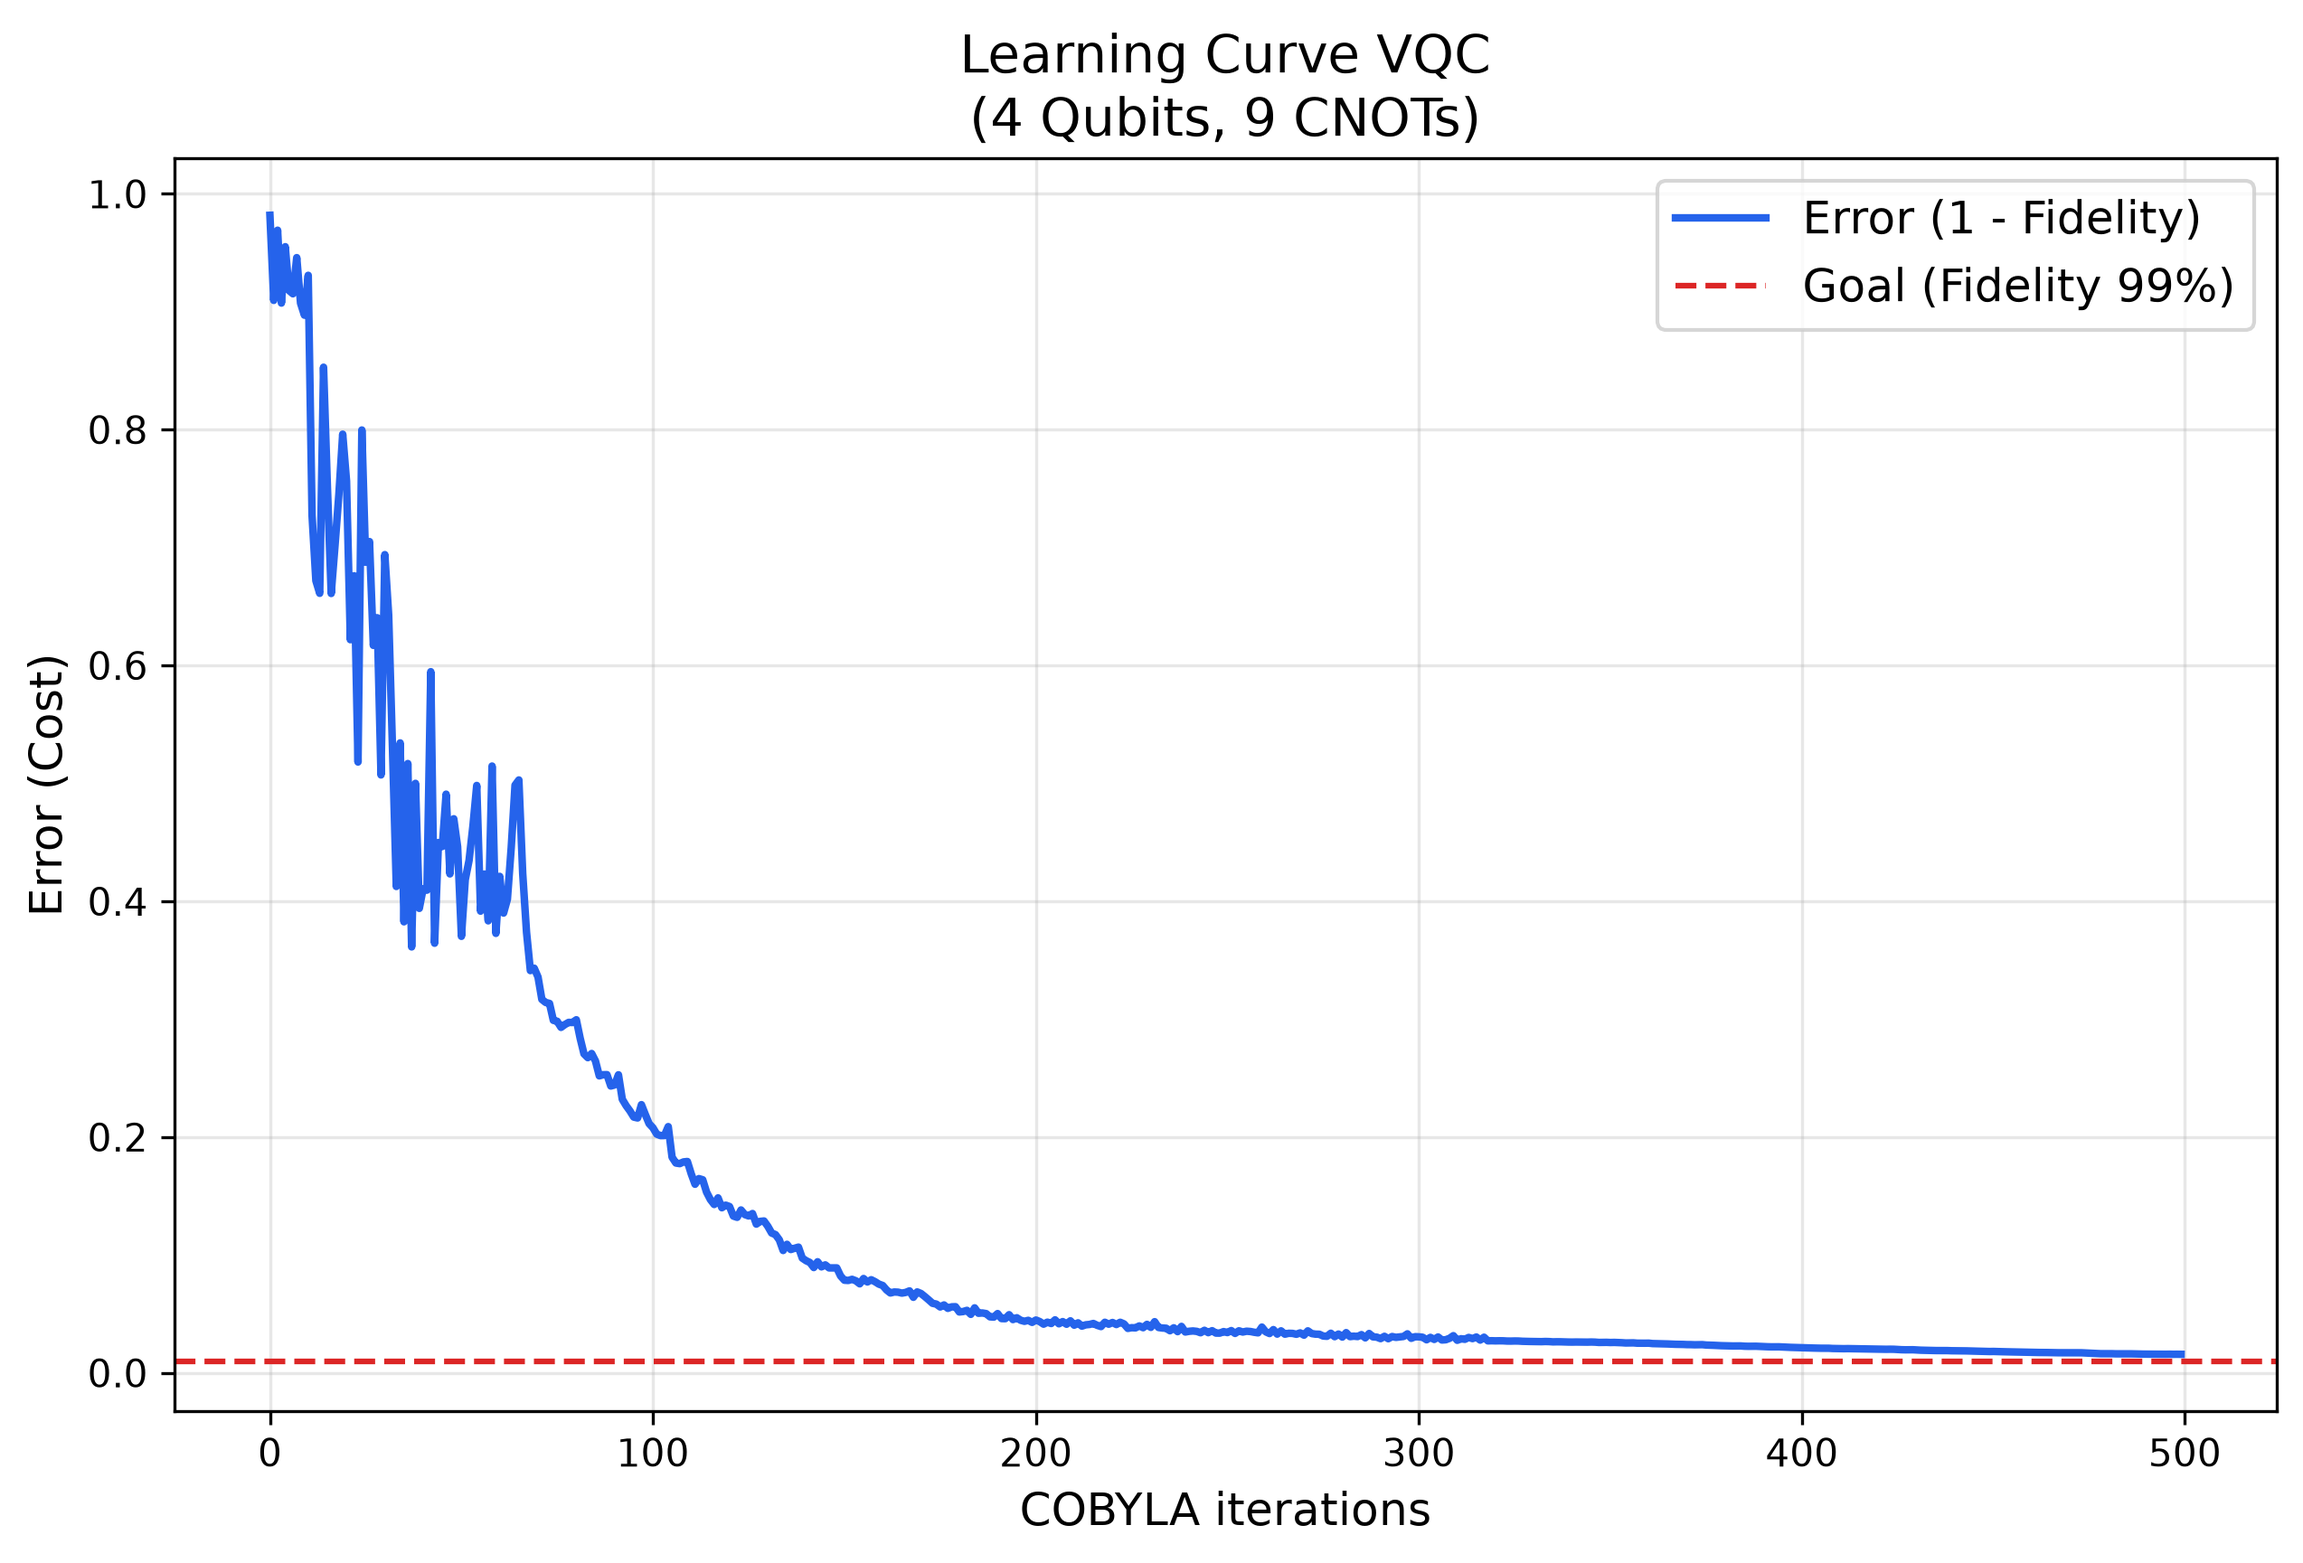
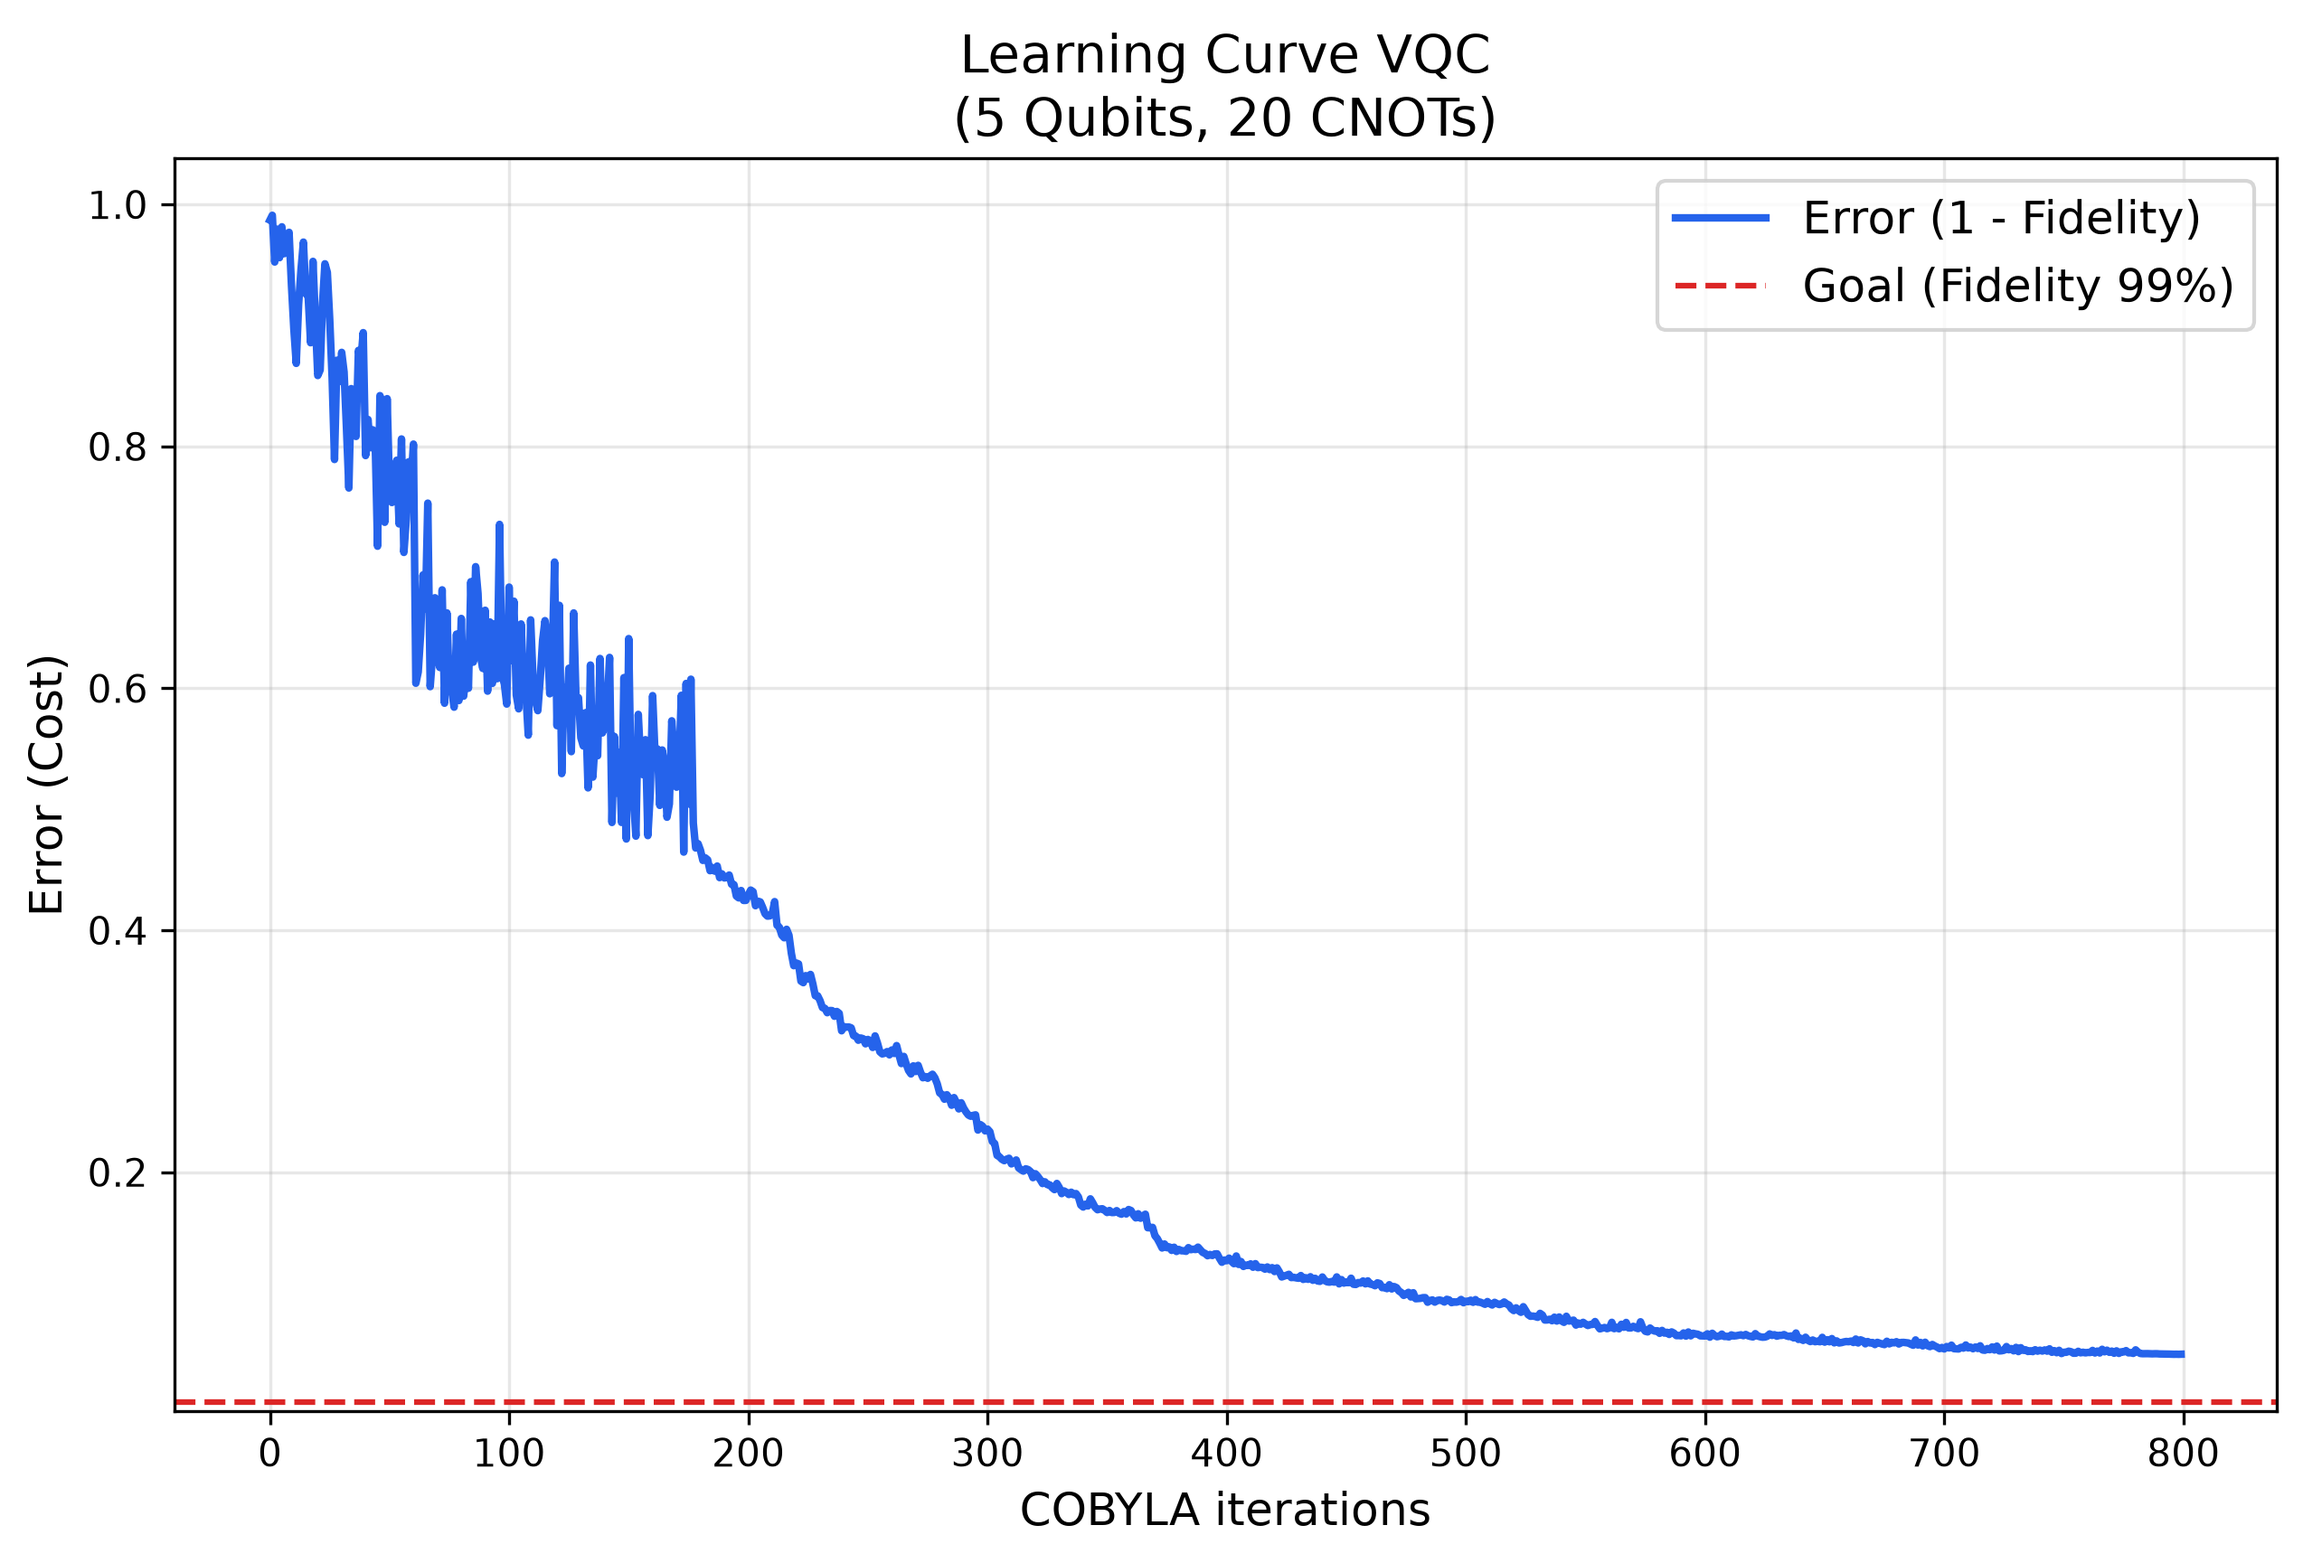
Refactor: Restructure project architecture (backend/frontend)

diff --git a/webapp/app.py b/webapp/app.py
@@ -1,0 +1,71 @@
+import sys
+import os
+sys.path.append(os.path.dirname(os.path.dirname(os.path.abspath(__file__))))
+
+import streamlit as st
+import numpy as np
+import matplotlib.pyplot as plt
+
+from q_state_prep.utils import generate_noise_map_state
+
+# PAGE CONFIGURATION
+st.set_page_config(
+    page_title="Quantum Noise Generator",
+    page_icon="",
+    layout="wide"
+)
+
+st.title("Quantum Procedural Noise Generator")
+st.markdown("Explore how Variational Quantum Circuits (VQC) optimize state preparation for procedural generation compared to exact methods.")
+
+# SIDEBAR CONTROLS
+with st.sidebar:
+    st.header("⚙ Quantum Parameters")
+    
+    # Safe limit: 2 to 6 qubits to prevent browser freezing during local simulation
+    n_qubits = st.slider(
+        "Number of qubits",
+        min_value=2, max_value=6, value=4, step=1,
+        help="Defines map resolution. 4 qubits = 16 values, 6 qubits = 64 values..."
+    )
+
+    st.markdown("---")
+    st.subheader("VQC Configuration")
+    reps = st.slider(
+        "Ansatz Layers (Reps)",
+        min_value=1, max_value=5, value=3, step=1,
+        help="More layers = higher potential fidelity but more CNOT gates."
+    )
+    maxiter = st.slider(
+        "Max iterations",
+        min_value=100, max_value=800, value=300, step=50,
+        help="Iteration limit for the COBYLA classical optimizer."
+    )
+
+    run_button = st.button("🚀 Run Comparision", type="primary", use_container_width=True)
+
+
+# MAIN PANEL: TARGET STATE VISUALIZATION
+st.header("1. Target: 1D Noise Map")
+
+# Generate amplitudes using the original function
+target_amplitudes = generate_noise_map_state(n_qubits)
+n_states = len(target_amplitudes)
+
+# 1D Profile Plot
+fig_target, ax_target = plt.subplots(figsize=(10, 3))
+ax_target.plot(range(n_states), target_amplitudes, marker='o', color="#2563eb", linewidth=2, markersize=6)
+ax_target.fill_between(range(n_states), target_amplitudes, color="#3b82f6", alpha=0.2)
+
+ax_target.set_title(f"Ideal Noise Profile ({n_qubits} Qubits | {n_states} States)", fontweight='bold')
+ax_target.set_xlabel("Quantum State Index")
+ax_target.set_ylabel("Probability Amplitude")
+ax_target.grid(True, alpha=0.3)
+
+# Render plot in Streamlit
+st.pyplot(fig_target)
+
+# RENDER PLACEHOLDER (NEXT STEPS)
+if run_button:
+    st.divider()
+    st.info("The live VQC training and Exact Method comparision will be inserted here...")

diff --git a/cli_scripts/train_vqc.py b/cli_scripts/train_vqc.py
@@ -1,26 +1,14 @@
+import sys
+import os
+# Add root directory to Python path
+sys.path.append(os.path.dirname(os.path.dirname(os.path.abspath(__file__))))
+
 import numpy as np
 import matplotlib
 matplotlib.use('Agg')
 import matplotlib.pyplot as plt
 from q_state_prep.vqc_prep import create_ansatz, get_num_parameters, VQCStatePrep
-from q_state_prep.utils import count_cnots
-
-def generate_noise_map_state(n_qubits: int) -> np.ndarray:
-    """
-    Generates a target state that simulates a 1D visual noise map,
-    ideal for procedural video game environments.
-    """
-
-    n_states = 2**n_qubits
-    x = np.linspace(0, 4 * np.pi, n_states)
-
-    amplitudes = np.sin(x) + 0.5 * np.cos(2.5 * x) + 0.2 * np.random.rand(n_states)
-
-    amplitudes = np.abs(amplitudes)
-
-    amplitudes = amplitudes / np.linalg.norm(amplitudes)
-
-    return amplitudes
+from q_state_prep.utils import count_cnots, generate_noise_map_state
 
 def run_training():
     print("\n STARTING TRAINING: QUANTUM MACHINE LEARNING")
@@ -28,9 +16,9 @@ def run_training():
 
     # 1. System Configuration
     # We'll start with 4 qubits so that training takes seconds, not minutes
-    n_qubits = 4
-    reps = 3
-    maxiter = 500
+    n_qubits = 5
+    reps = 5
+    maxiter = 800
 
     print(f"[*] System: {n_qubits} qubits (Space of {2**n_qubits} states)")
 

diff --git a/cli_scripts/compare_methods.py b/cli_scripts/compare_methods.py
@@ -1,3 +1,8 @@
+import sys
+import os
+# Add root directory to Python path
+sys.path.append(os.path.dirname(os.path.dirname(os.path.abspath(__file__))))
+
 import numpy as np
 import matplotlib
 matplotlib.use('Agg')
@@ -7,8 +12,7 @@ from time import time
 from qiskit.quantum_info import Statevector, state_fidelity
 from q_state_prep.exact_prep import get_ry_angles, build_exact_circuit
 from q_state_prep.vqc_prep import create_ansatz, VQCStatePrep
-from q_state_prep.utils import count_cnots
-from train_vqc import generate_noise_map_state
+from q_state_prep.utils import count_cnots, generate_noise_map_state
 
 def run_comparision():
     print("\n ALGORITHM COMPARISION")
@@ -107,7 +111,7 @@ def run_comparision():
     plt.title(f"Impact of VQC on Circuit Depth ({n_qubits} Qubits)\nProcedural Noise", fontsize=14, fontweight='bold')
     plt.grid(True, alpha=0.2)
 
-    file = "./media/comparision_chart.png"
+    file = "../media/comparision_chart.png"
     plt.savefig(file, dpi=300, bbox_inches='tight')
 
     print("=" * 65)

diff --git a/q_state_prep/utils.py b/q_state_prep/utils.py
@@ -1,3 +1,6 @@
+
+import numpy as np
+
 from qiskit import QuantumCircuit, transpile
 from qiskit.providers.fake_provider import GenericBackendV2
 
@@ -11,3 +14,22 @@ def count_cnots(qc: QuantumCircuit) -> int:
 
     ops = transpiled_qc.count_ops()
     return ops.get('cx', 0)
+
+def generate_noise_map_state(n_qubits: int) -> np.ndarray:
+    """
+    Generates a target state that simulates a 1D visual noise map,
+    ideal for procedural video game environments.
+    """
+
+    n_states = 2**n_qubits
+    x = np.linspace(0, 4 * np.pi, n_states)
+
+    amplitudes = np.sin(x) + 0.5 * np.cos(2.5 * x) + 0.2 * np.random.rand(n_states)
+
+    amplitudes = np.abs(amplitudes)
+
+    amplitudes = amplitudes / np.linalg.norm(amplitudes)
+
+    # print(f"AMPLITUDES: + {amplitudes}")
+
+    return amplitudes

diff --git a/cli_scripts/benchmark.py b/cli_scripts/benchmark.py
@@ -1,3 +1,8 @@
+import sys
+import os
+# Add root directory to Python path
+sys.path.append(os.path.dirname(os.path.dirname(os.path.abspath(__file__))))
+
 import numpy as np
 from qiskit.quantum_info import Statevector, state_fidelity
 from q_state_prep.exact_prep import get_ry_angles, build_exact_circuit
